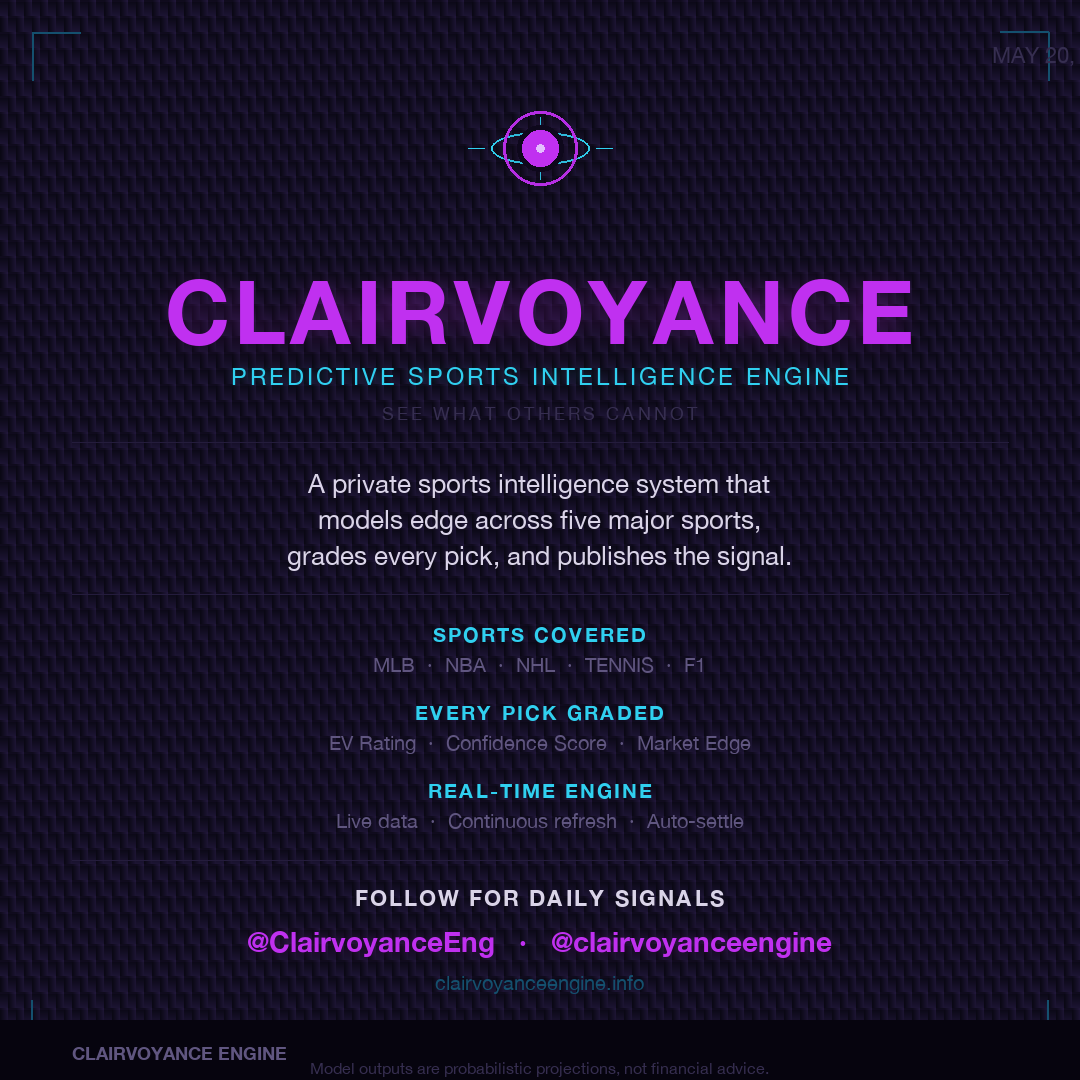
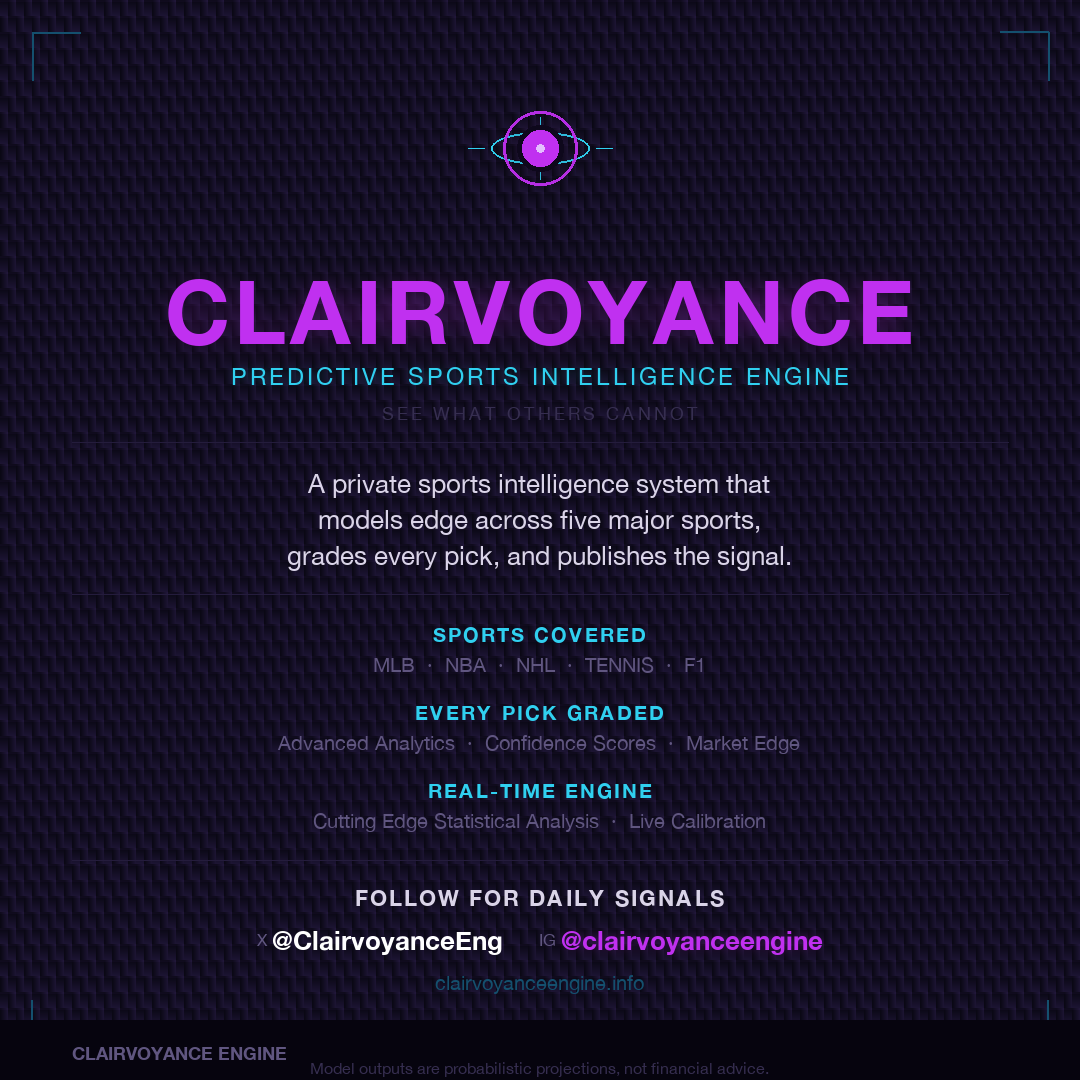
pinned card: no date, platform labels, updated feature rows

diff --git a/scripts/generate_pinned_card.py b/scripts/generate_pinned_card.py
@@ -209,9 +209,6 @@ def generate() -> Image.Image:
     # Corner brackets
     _brackets(draw)
 
-    # Date — top right
-    date_font = _font(22)
-    draw.text((W - 88, 42), DATE_STR, font=date_font, fill=DIM)
 
     # ── Eye logo ─────────────────────────────────────────────────────────────
     img = _draw_eye(img, W // 2, 148, size=90)
@@ -260,8 +257,8 @@ def generate() -> Image.Image:
 
     rows = [
         ("SPORTS COVERED",    "MLB  ·  NBA  ·  NHL  ·  TENNIS  ·  F1"),
-        ("EVERY PICK GRADED", "EV Rating  ·  Confidence Score  ·  Market Edge"),
-        ("REAL-TIME ENGINE",  "Live data  ·  Continuous refresh  ·  Auto-settle"),
+        ("EVERY PICK GRADED", "Advanced Analytics  ·  Confidence Scores  ·  Market Edge"),
+        ("REAL-TIME ENGINE",  "Cutting Edge Statistical Analysis  ·  Live Calibration"),
     ]
 
     for label, value in rows:
@@ -284,12 +281,36 @@ def generate() -> Image.Image:
     _tracked(draw, (fol_x, dy), "FOLLOW FOR DAILY SIGNALS", follow_font, TEXT, 2)
     dy += 40
 
-    # Handles side by side
-    handle_font = _font(28, bold=True)
-    handles     = f"{X_HANDLE}   ·   {IG_HANDLE}"
-    img = _glow(img, handles, dy, handle_font,
-                color=PURPLE, glow_color=PURPLE, radius=10)
+    # Handles — X (white) and IG (purple), platform labels in muted
+    lbl_font  = _font(17)
+    h_font    = _font(26, bold=True)
+    gap_mid   = 36
+
+    x_lbl_w  = _tw(draw, "X ", lbl_font)
+    x_h_w    = _tw(draw, X_HANDLE, h_font)
+    ig_lbl_w = _tw(draw, "IG ", lbl_font)
+    ig_h_w   = _tw(draw, IG_HANDLE, h_font)
+    total_w  = x_lbl_w + x_h_w + gap_mid + ig_lbl_w + ig_h_w
+    sx       = (W - total_w) // 2
+
+    # "X " label
+    draw.text((sx, dy + 5), "X ", font=lbl_font, fill=MUTED)
+    sx += x_lbl_w
+    # X handle white
+    draw.text((sx, dy), X_HANDLE, font=h_font, fill=WHITE)
+    sx += x_h_w + gap_mid
+    # "IG " label
+    draw.text((sx, dy + 5), "IG ", font=lbl_font, fill=MUTED)
+    sx += ig_lbl_w
+    # IG handle purple glow
+    gl = Image.new("RGBA", (W, H), (0, 0, 0, 0))
+    gd = ImageDraw.Draw(gl)
+    gd.text((sx, dy), IG_HANDLE, font=h_font, fill=(*PURPLE, 210))
+    gl  = gl.filter(ImageFilter.GaussianBlur(8))
+    img = Image.alpha_composite(img.convert("RGBA"), gl).convert("RGB")
     draw = ImageDraw.Draw(img)
+    draw.text((sx, dy), IG_HANDLE, font=h_font, fill=PURPLE)
+
     dy += 46
 
     # Domain